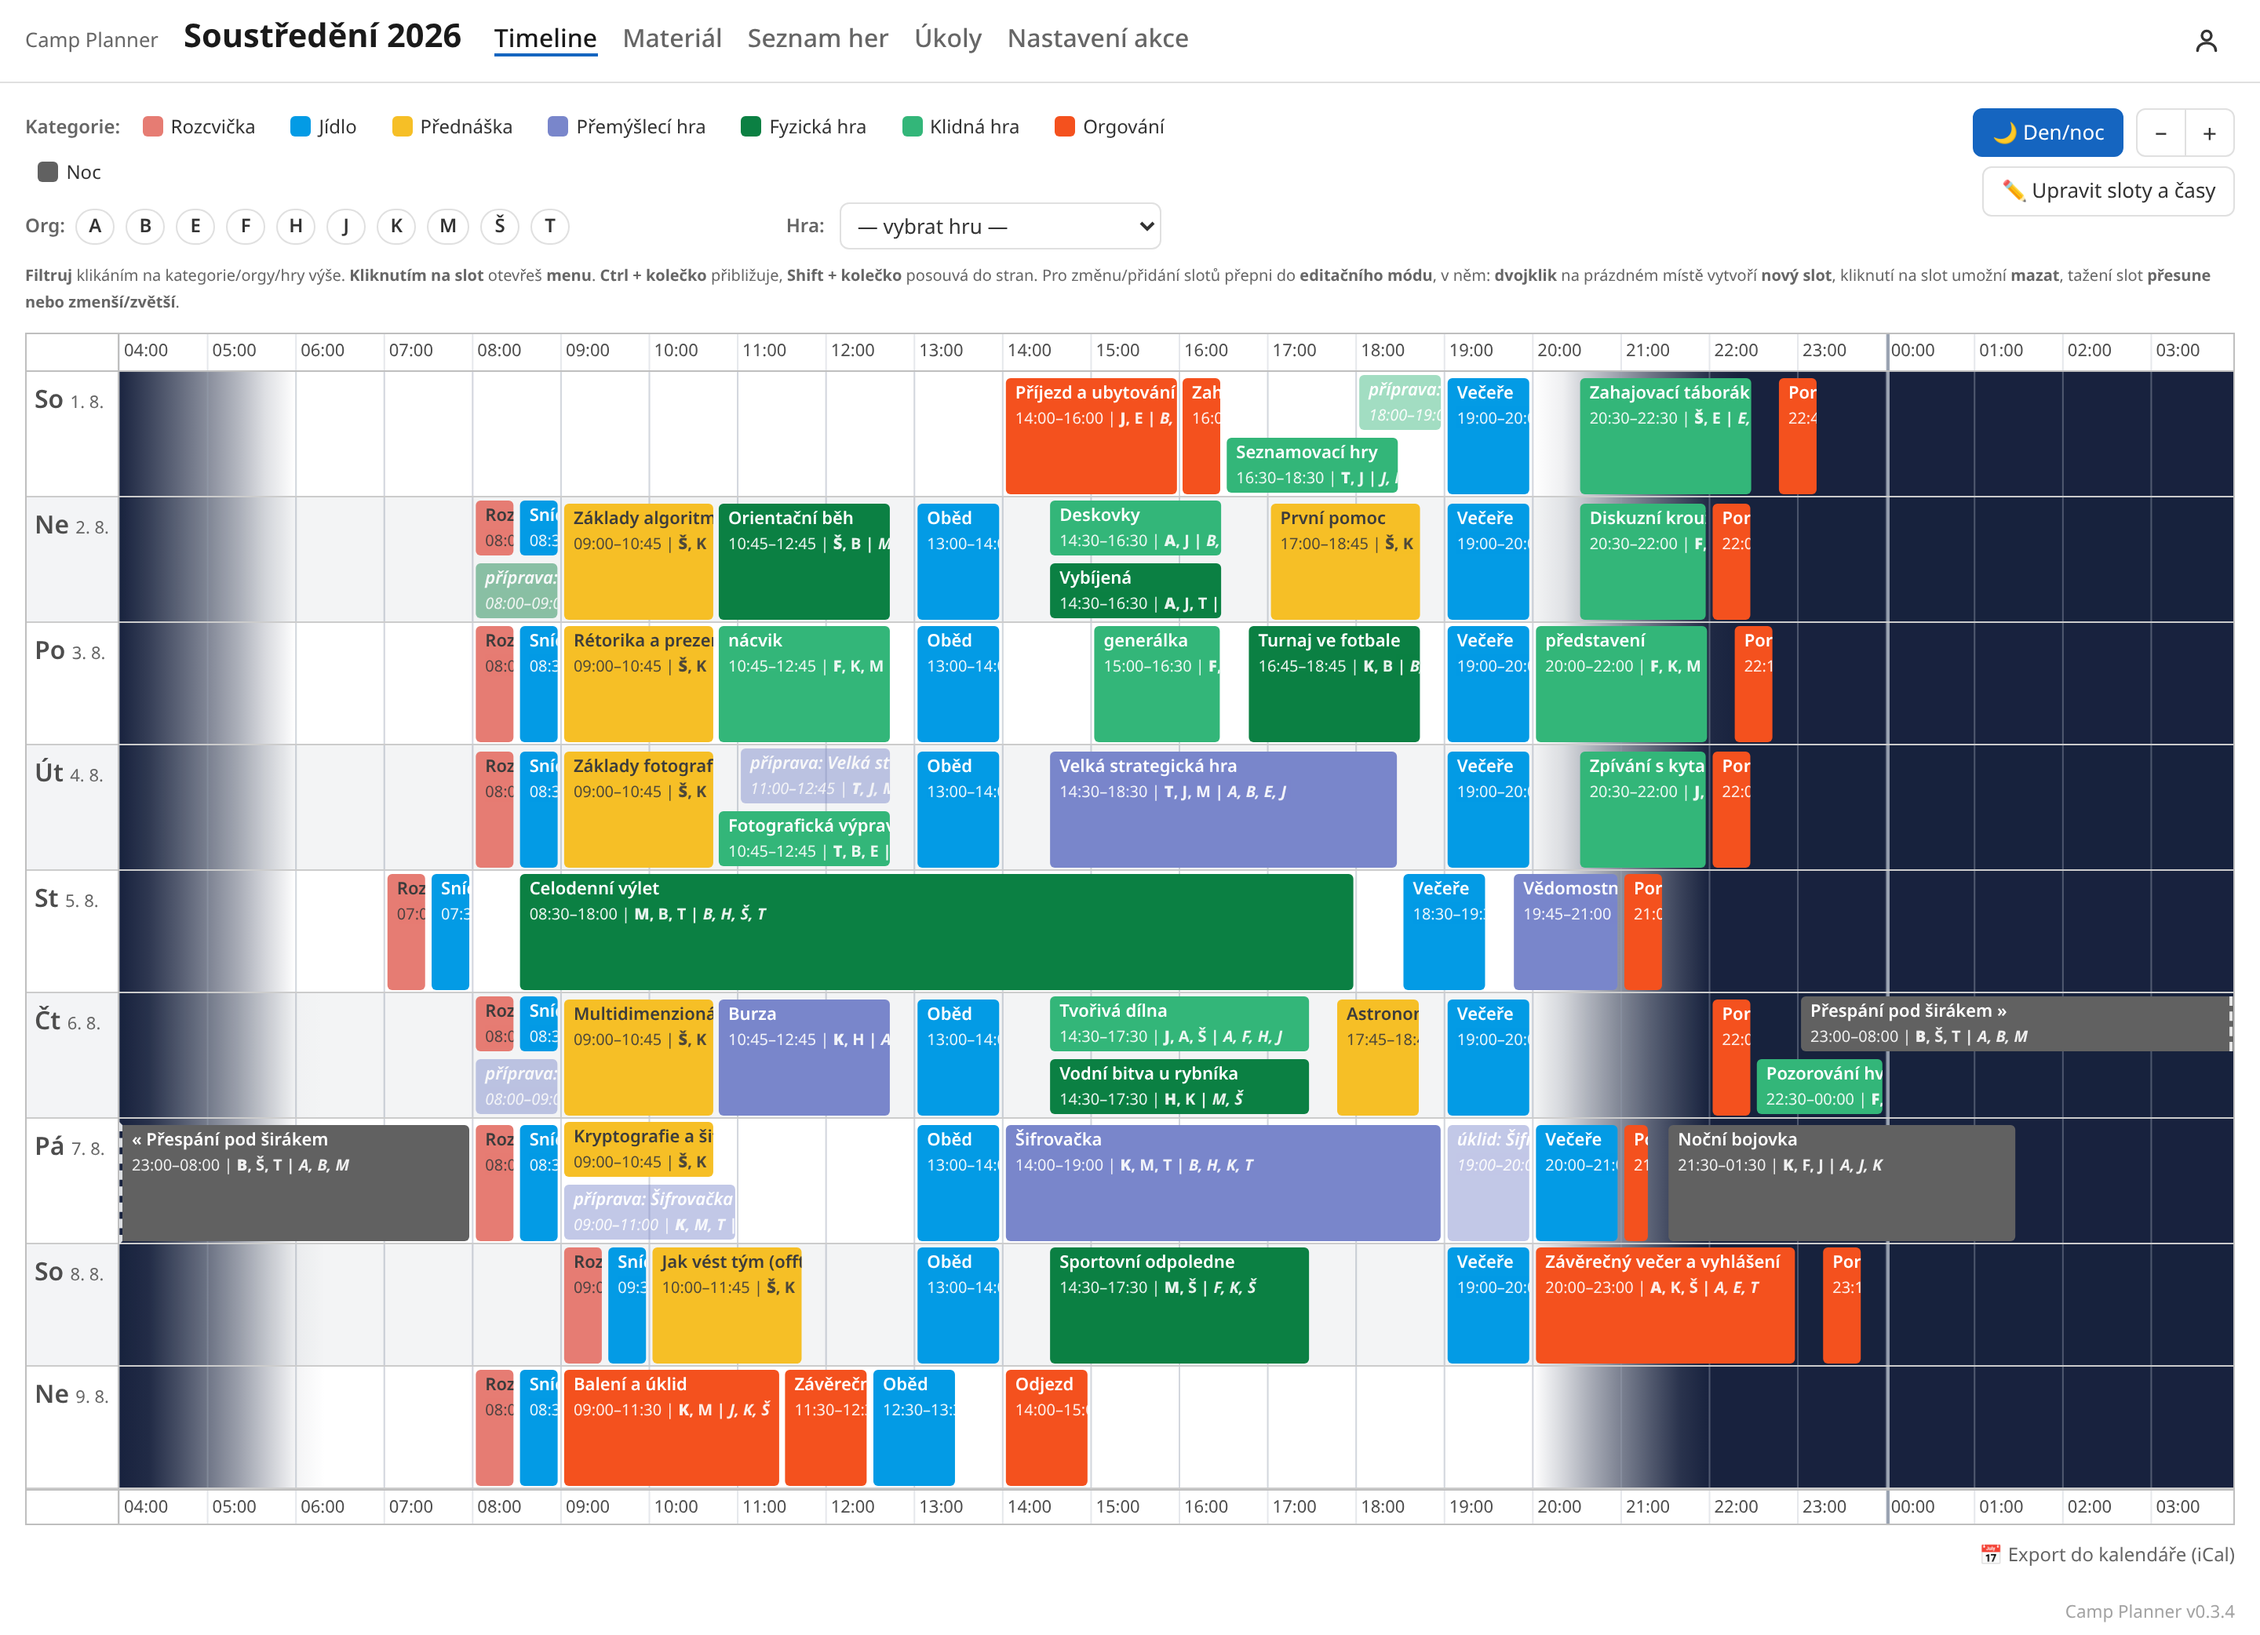
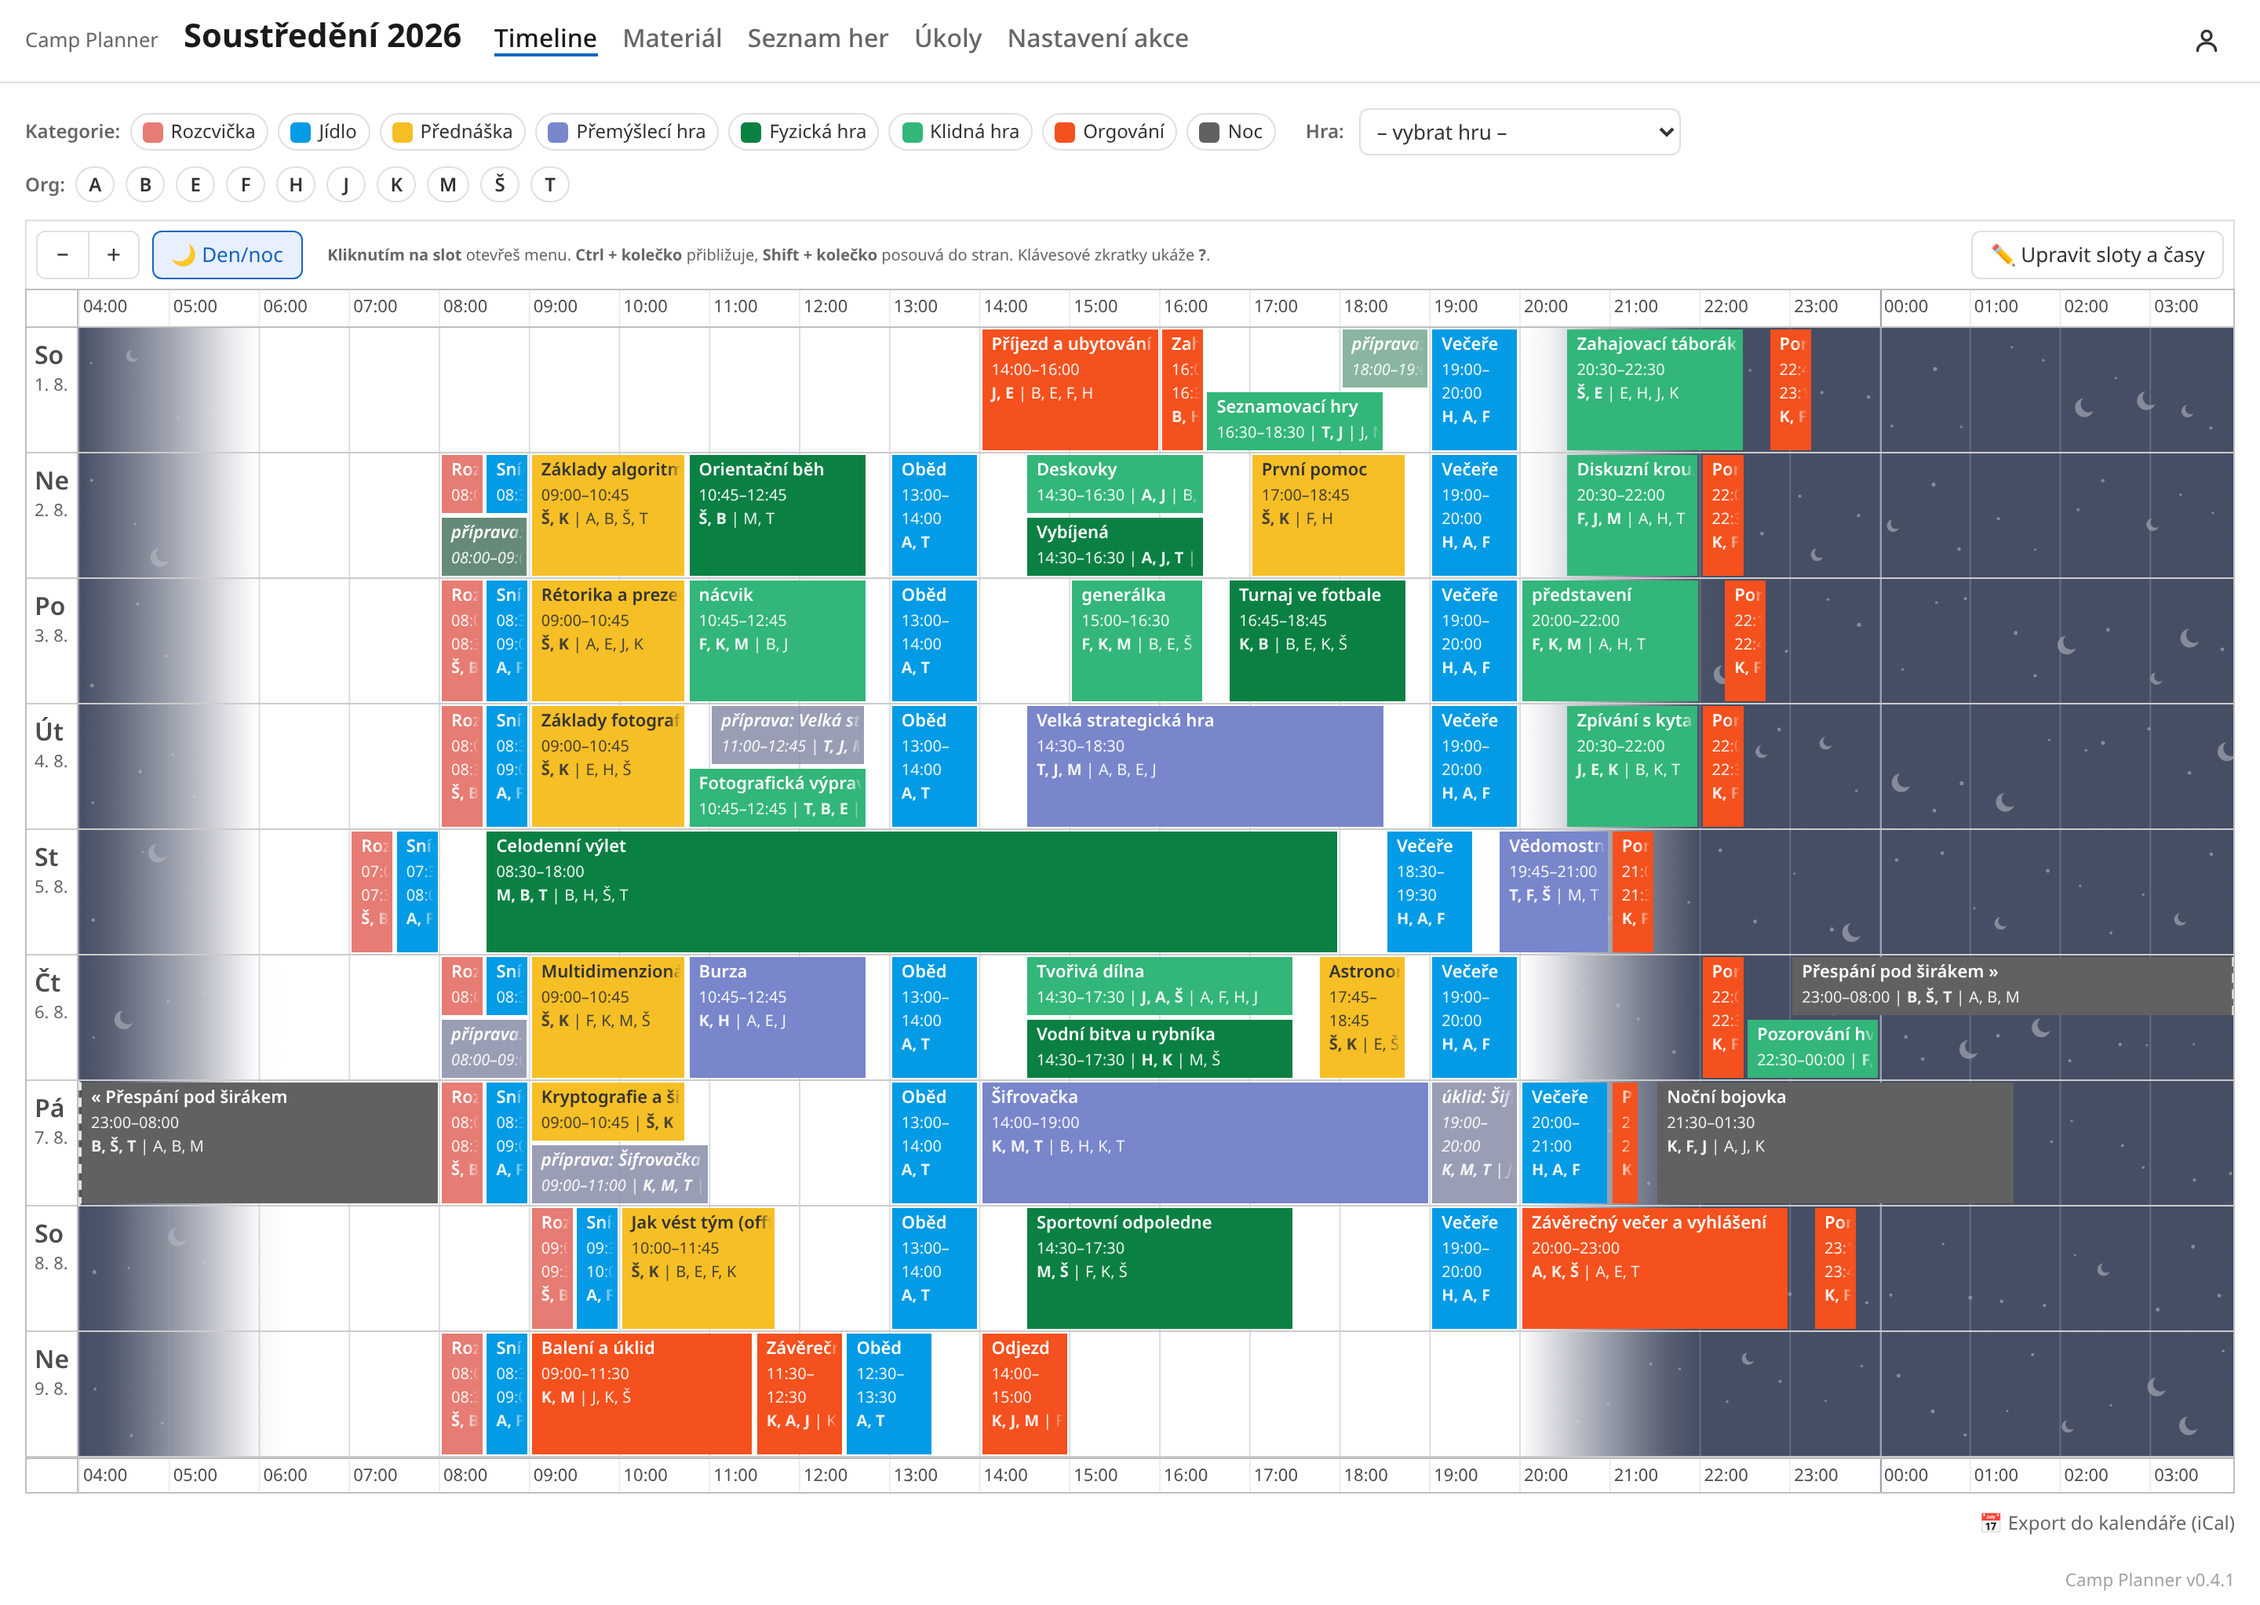
Docs: reshoot the screenshots and catch the guide up with the timeline

diff --git a/docs/pruvodce.md b/docs/pruvodce.md
@@ -118,10 +118,10 @@ aktivity se můžou překrývat.
 ### Orientace
 
 Řádek začíná v nastavenou hodinu (výchozí 04:00). Pozadí je stínované podle výšky slunce
-(pokud má akce vyplněné souřadnice). Kliknutí na kategorii, orga nebo hru v hlavičce filtruje
-zobrazení, tlačítko *Zrušit filtr* ho zruší; tlačítka `+` a `−` mění přiblížení. Během akce
-je dnešní den v levém sloupci označen červeným proužkem a v jeho řádku ukazuje červená čára
-aktuální čas.
+(pokud má akce vyplněné souřadnice), tlačítko *Den/noc* stínování vypne. Kliknutí na
+kategorii, orga nebo hru v hlavičce filtruje zobrazení, tlačítko *Zrušit filtr* ho zruší;
+tlačítka `+` a `−` mění přiblížení. Během akce je dnešní den v levém sloupci označen
+červeným proužkem a v jeho řádku ukazuje červená čára aktuální čas.
 
 Na telefonu se rozvrh otevře jen na části dne: během akce kolem aktuálního času, jinak od
 prvního programu. Zbytek dne se zobrazí posunutím prstem do strany; stín u okraje mřížky
@@ -190,7 +190,7 @@ nová aktivita, nebo se slot přidá k již existující.
 ### Příprava a úklid
 
 Slot má typ **hlavní slot**, **příprava** nebo **úklid**. Příprava a úklid se
-v rozvrhu zobrazují poloprůhledně.
+v rozvrhu zobrazují tlumeně a kurzívou. Typ se v editačním módu mění akcí *Typ slotu*.
 
 ### Účastníci slotu
 
